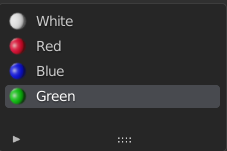
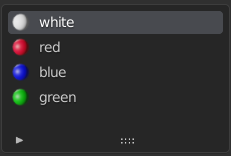
[Doc] tutorial 2-1 change color names

diff --git a/docs/Tutorials/tutorial2/CreateSimpleModel.html b/docs/Tutorials/tutorial2/CreateSimpleModel.html
@@ -156,14 +156,14 @@
           icon on the right.
         </p>
 
-        <p>Click on the <code>New</code> button then rename the created material to "White".</p>
+        <p>Click on the <code>New</code> button then rename the created material to "white".</p>
 
         <img src="../../images/Tutorials/tutorial2/white.png" alt="tutorial 2 White material" width="25%" class="center"/>
 
         <p>By clicking on the Base color color box (yes directly on the color) you can modify it and set it to a real white.</p>
 
         <p>You can now press the <code>+</code> button to create another material.
-           Rename this new material to "Red" and change the base color. 
+           Rename this new material to "red" and change the base color. 
            Do the same to create a blue and green material.
            By the end, you should get the following material list.
         </p>
